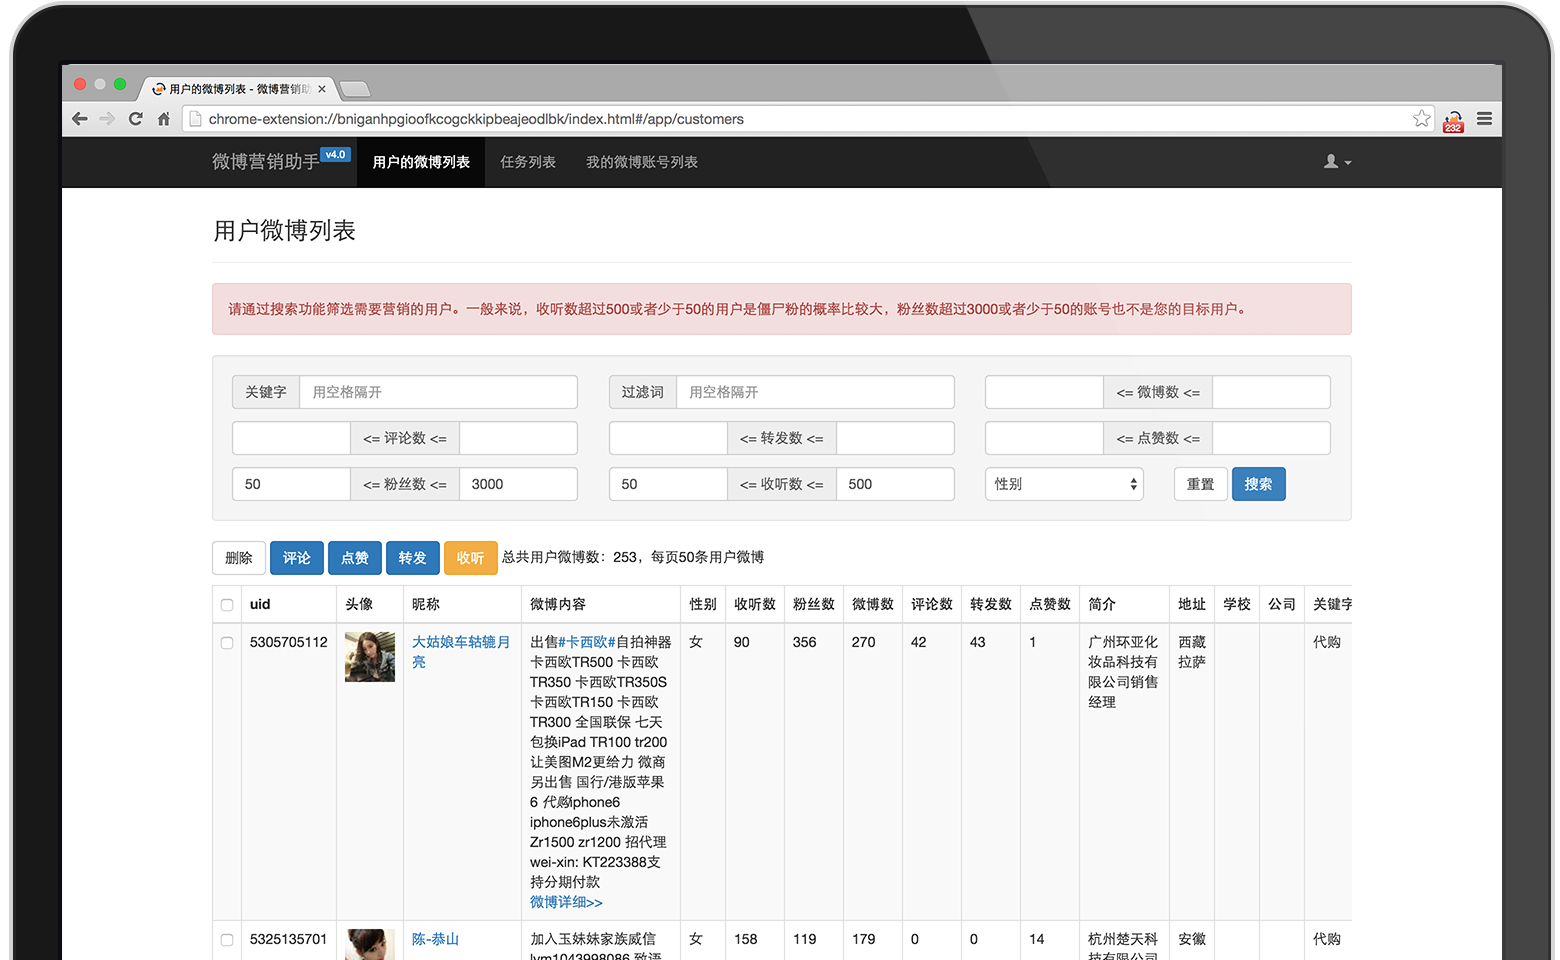
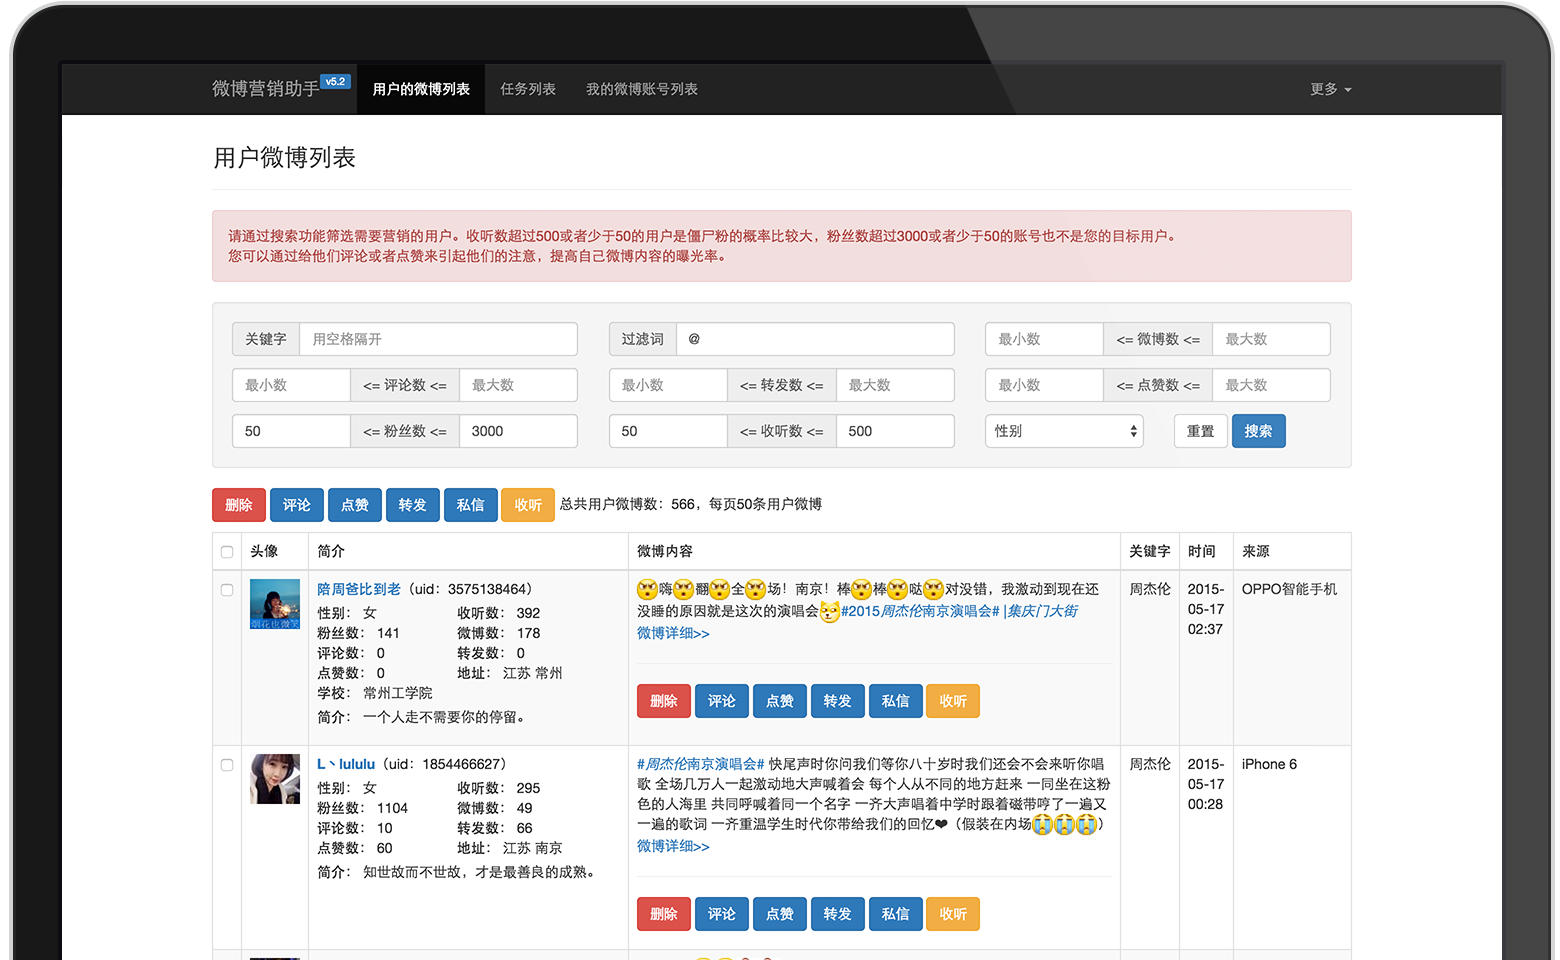
update image in home page

diff --git a/index.html b/index.html
@@ -64,7 +64,7 @@
                     </div>
                     <div class="col-lg-2 hidden-xs hidden-sm hidden-md">
                         <h4>批量操作更省时</h4>
-                        <p>批量获取用户，批量评论，批量点赞，批量收听。</p>
+                        <p>批量获取用户，批量评论，批量点赞，批量收听，批量私信。</p>
                         <img src="assets/img/arrow-left.png" alt="">
                     </div>
                     <div class="col-lg-8">
